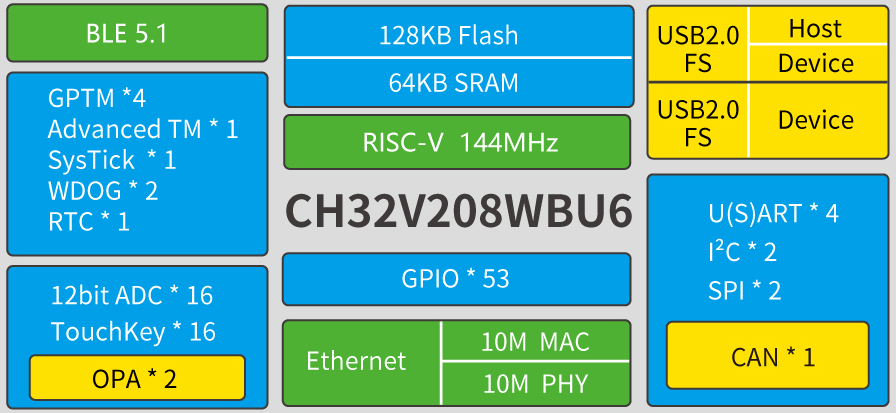
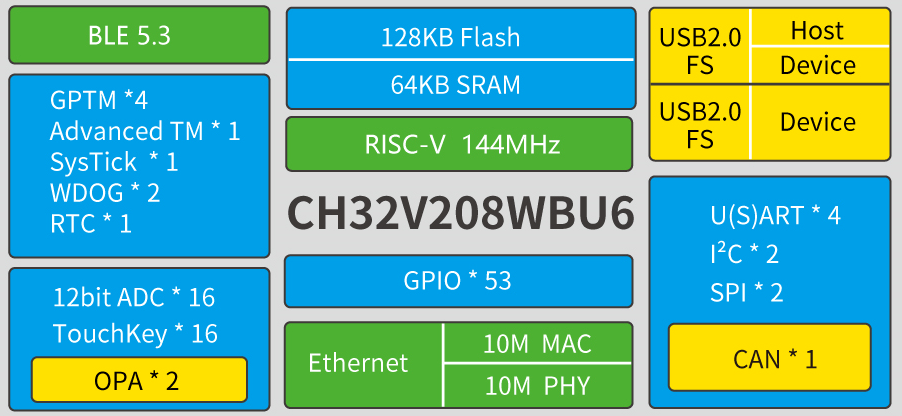
UP

diff --git a/docs/WCH/CH32V208.rst b/docs/WCH/CH32V208.rst
@@ -4,7 +4,7 @@
 CH32V208
 ============
 
-* 关键词：``RISC-V4C`` ``144MHz`` ``USB`` ``10M-ETH-PHY`` ``BLE5.3`` ``QFN28``
+* 关键词：``RISC-V4C`` ``144MHz`` ``USB`` ``10Mbps(PHY)` ``BLE5.3`` ``QFN28``
 * 资源库：`GitHub <https://github.com/SoCXin/CH32F208>`_ , `官方资源 <http://www.wch.cn/products/CH32V208.html>`_
 
 .. contents::
@@ -42,8 +42,11 @@ Xin简介
 * 10M以太网控制器（MAC+PHY）
 * 2组运放比较器
 * USB2.0全速主机/设备+设备接口
-* 1个CAN接口（2.0B主动）
+* :ref:`ch32v208_can` （2.0B主动）
 * 2组IIC接口、2组SPI接口
+
+.. hint::
+    128K FLASH+64K SRAM 的 208 产品支持用户选择字配置为（128K FLASH+64K SRAM）、（144KFLASH+48K SRAM）、（160K FLASH+32K SRAM）几种组合中的一种。
 
 
 芯片架构
@@ -69,18 +72,28 @@ Timer
 BLE
 ^^^^^^^^^^^
 
+``-98dBm``
+
 .. _ch32v208_usb:
 
 USB
 ^^^^^^^^^^^
 
+``USB FS``
+
+.. _ch32v208_can:
+
+CAN
+^^^^^^^^^^^
+
+``CAN 2.0B``
 
 .. _ch32v208_eth:
 
 Ethernet
 ^^^^^^^^^^^
 
-``10Mbps-PHY``
+``10Mbps(PHY)``
 
 
 Xin选择
@@ -89,9 +102,45 @@ Xin选择
 .. contents::
     :local:
 
+品牌对比
+~~~~~~~~~~
 
 型号对比
-~~~~~~~~~
+~~~~~~~~~~
+
+.. list-table::
+    :header-rows:  1
+
+    * - :ref:`wch`
+      - Core
+      - SRAM/ROM
+      - BLE
+      - ADC/OPA
+      - USB
+      - Ethernet
+    * - :ref:`ch32v208`
+      - 144MHz
+      - 64KB/128KB
+      - 5.3(96dBm)
+      - 16/2
+      - H/D + D
+      - 10M(PHY)
+    * - :ref:`ch32f208`
+      - 144MHz
+      - 64KB/128KB
+      - 5.3(96dBm)
+      - 16/2
+      - H/D + D
+      - 10M(PHY)
+    * - :ref:`ch579`
+      - 40MHz
+      - 32KB/250KB
+      - 4.2(96dBm)
+      - 14/0
+      - H/D
+      - 10M(PHY)
+
+
 
 .. list-table::
     :header-rows:  1
@@ -116,7 +165,7 @@ Xin选择
       - 4/0
       - 2xUSB FS OTG
       - 10M(PHY)
-      - 100/64
+      - 28/48/64/68
     * - :ref:`ch32v307`
       - 64K/256K
       - DVP/OPA
@@ -132,29 +181,5 @@ Xin选择
       - 10M(PHY)/1G(MAC)
       - 100/68/64
 
-Xin应用
------------
-
-.. contents::
-    :local:
-
-
-串口网关
-~~~~~~~~~~~
-
-:ref:`iot`
-
-Xin总结
---------------
-
-.. contents::
-    :local:
-
-要点提示
-~~~~~~~~~~~~~
-
-
-
-问题整理
-~~~~~~~~~~~~~
-
+版本对比
+~~~~~~~~~~

diff --git a/docs/WCH/CH579.rst b/docs/WCH/CH579.rst
@@ -28,7 +28,7 @@ Xin简介
 * 制程工艺：
 * 供货周期：
 * 处理性能：
-* 封装规格：:ref:`wch_qfn28` / :ref:`wch_qfn48`
+* 封装规格：:ref:`wch_qfn28` /:ref:`wch_qfn48`
 * 运行环境：-40°C to 85°C
 * RAM容量：32 KB
 * Flash容量：250 KB
@@ -114,7 +114,7 @@ USB
 Ethernet
 ^^^^^^^^^^^
 
-``10Mbps-MAC`` ``10Mbps-PHY``
+``10Mbps(PHY)``
 
 * 10Mbps MAC
 * 10Mbps PHY
@@ -141,35 +141,35 @@ Xin选择
     * - :ref:`list`
       - Core
       - Freq
-      - SRAM
-      - Flash
-      - :ref:`ble`
-      - :ref:`eth_phy`
-      - :ref:`eth_mac`
+      - SRAM/ROM
+      -
+      - Wireless
+      - Ethernet
+      - Package
     * - :ref:`ch579`
       - :ref:`cortex_m0`
       - 40 MHz
-      - 32 KB
-      - 250 KB
-      - 4.2
-      - 10M
-      - 10M
+      - 32KB/250KB
+      -
+      - BLE4.2
+      - 10M(PHY)
+      - QFN48/QFN28
     * - :ref:`W7500P`
       - :ref:`cortex_m0`
       - 48 MHz
-      - 16+32 KB
-      - 128 KB
+      - 32KB/128KB
+      -
       - X
-      - 10M
-      - 10M
+      - 10M(PHY)
+      - LQFP48
     * - :ref:`esp32`
       - :ref:`xtensa_lx6`
-      - 160 MHz
-      - 520 KB
-      - 480 KB
-      - 4.2
-      - X
-      - 100M
+      - 240 MHz
+      - 520KB/480KB
+      -
+      - WiFi+BLE
+      - 100M(MAC)
+      - QFN32
 
 .. _W7500P:
 
@@ -192,6 +192,39 @@ W7500P
 
 系列对比
 ~~~~~~~~~
+
+.. list-table::
+    :header-rows:  1
+
+    * - :ref:`wch`
+      - Core
+      - SRAM/ROM
+      - BLE
+      - ADC/OPA
+      - USB
+      - Ethernet
+    * - :ref:`ch32v208`
+      - 144MHz
+      - 64KB/128KB
+      - 5.3(96dBm)
+      - 16/2
+      - H/D + D
+      - 10M(PHY)
+    * - :ref:`ch32f208`
+      - 144MHz
+      - 64KB/128KB
+      - 5.3(96dBm)
+      - 16/2
+      - H/D + D
+      - 10M(PHY)
+    * - :ref:`ch579`
+      - 40MHz
+      - 32KB/250KB
+      - 4.2(96dBm)
+      - 14/0
+      - H/D
+      - 10M(PHY)
+
 
 .. list-table::
     :header-rows:  1

diff --git a/docs/WCH/CH32F208.rst b/docs/WCH/CH32F208.rst
@@ -4,7 +4,7 @@
 CH32F208
 ============
 
-* 关键词：``Cortex-M3`` ``144MHz`` ``USB`` ``10Mbps-PHY`` ``BLE5.3`` ``CAN`` ``AES128``
+* 关键词：``Cortex-M3`` ``144MHz`` ``USB`` ``10Mbps(PHY)`` ``BLE5.3`` ``CAN`` ``AES128``
 * 资源库：`GitHub <https://github.com/SoCXin/CH32F208>`_ , `官方资源 <http://www.wch.cn/products/CH32F208.html>`_
 
 .. contents::
@@ -30,7 +30,7 @@ Xin简介
 * 制程工艺：
 * 供货周期：
 * 处理性能：
-* 封装规格：LQFP64M/QFN68
+* 封装规格：LQFP64M/QFN68/QFN48/QFN28
 * 运行环境：-40°C to 85°C
 * RAM容量：64 KB
 * Flash容量：128 KB
@@ -67,7 +67,7 @@ Xin简介
 连接能力
 ~~~~~~~~~~~
 
-``USB HS`` ``USB OTG`` ``CAN`` ``Ethernet``
+``USB OTG`` ``CAN`` ``Ethernet``
 
 .. _ch32f208_ble:
 
@@ -79,7 +79,7 @@ BLE
 USB
 ^^^^^^^^^^^
 
-``480Mbps(PHY)``
+
 
 .. _ch32f208_eth:
 
@@ -100,6 +100,46 @@ Xin选择
 
 型号对比
 ~~~~~~~~~~
+
+
+.. list-table::
+    :header-rows:  1
+
+    * - :ref:`wch`
+      - SRAM/ROM
+      - More
+      - UART/SDIO
+      - USB
+      - Ethernet
+      - Package
+    * - :ref:`ch32v208`
+      - 64K/128K
+      - BLE5.3
+      - 4/0
+      - 2xUSB FS OTG
+      - 10M(PHY)
+      - 28/48/64/68
+    * - :ref:`ch32f208`
+      - 64K/128K
+      - BLE5.3
+      - 4/0
+      - 2xUSB FS OTG
+      - 10M(PHY)
+      - 100/64
+    * - :ref:`ch32v307`
+      - 64K/256K
+      - DVP/OPA
+      - 8/1
+      - FS(OTG)+HS(PHY)
+      - 10M(PHY)/1G(MAC)
+      - 100/68/64
+    * - :ref:`ch32f207`
+      - 64K/256K
+      - DVP/OPA
+      - 8/1
+      - FS(OTG)+HS(PHY)
+      - 10M(PHY)/1G(MAC)
+      - 100/68/64
 
 .. image:: ./images/CH32F20.png
     :target: http://www.wch.cn/products/CH32F208.html

diff --git a/docs/WCH/CH573.rst b/docs/WCH/CH573.rst
@@ -27,13 +27,14 @@ Xin简介
 ^^^^^^^^^^^
 
 * 发布时间：
-* 发布价格：
+* 参考价格：
 * 制程工艺：
 * 供货周期：
 * 处理性能：
+* 封装规格：:ref:`wch_qfn28` (4x4mm) / :ref:`wch_qfn48`
+* 运行环境：-40°C to 85°C
 * RAM容量：18 KB
 * Flash容量：512 KB
-* 封装规格：:ref:`wch_qfn28` (4x4mm) / :ref:`wch_qfn48`
 
 
 特征参数
@@ -41,8 +42,8 @@ Xin简介
 
 * :ref:`wch_riscv3a` 20 MHz，支持RV32 IMAC指令集，支持单周期乘法和硬件除法
 * SPI x 2 + UART x 4 (16C550/6Mbps)
-* BLE4.2 (RX-96dBm，TX+5dBm)
-* 内置USB控制器和USB收发器，支持USB2.0全速和低速主机或设备
+* :ref:`ch573_ble` 4.2 (RX-96dBm，TX+5dBm)
+* :ref:`ch573_usb` ，支持USB2.0全速和低速主机或设备
 * 多种低功耗模式：Idle，Halt, Sleep, Shutdown, 内置电池电压低压监控，最低睡眠电流0.3uA
 * 2 组端口PA和PB，22 x GPIO
 * 内置温度传感器
@@ -77,11 +78,33 @@ Xin简介
 连接能力
 ~~~~~~~~~~~
 
+.. list-table::
+    :header-rows:  1
+
+    * - :ref:`wch`
+      - UART
+      - SPI
+      - :ref:`ch573_ble`
+      - :ref:`ch573_usb`
+      -
+    * - :ref:`ch573`
+      - 4
+      - 2
+      - 4.2
+      - FS
+      -
+
+.. _ch573_ble:
+
 BLE
 ^^^^^^^^^^^^
 
+``-96dBm`` ``+5dBm``
+
 * Bluetooth Low Energy 4.2
 * 接收灵敏度-96dBm，可编程+5dBm 发送功率
+
+.. _ch573_usb:
 
 USB
 ^^^^^^^^^^^^
